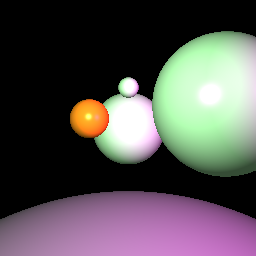
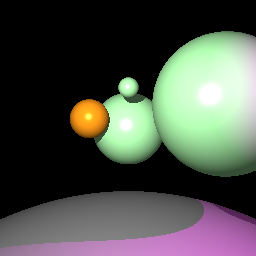
objective 6 complete.

Changed region(s): [[0.0, 0.75, 0.8125, 0.9688], [0.3125, 0.2812, 0.6562, 0.6562], [0.8438, 0.7812, 1.0, 0.875]]

diff --git a/src/a4.cpp b/src/a4.cpp
@@ -82,12 +82,18 @@ void a4_render(// What to render
 
 		Colour pixel_color(0, 0, 0);
 
+		// primary ray
 		if (root->rayTracing(eye, p_world, p)) {
 			// Adding Phong shading.
 			Point3D hitPoint = eye + p.z_buffer * (p_world - eye);
 			pixel_color  = ambient * p.material->getDiffuseColor();
 
 			for (std::list<Light*>::const_iterator I = lights.begin(); I != lights.end(); I++) { 
+				pixel temp;
+				// secondary ray, adding shadows.
+				if (root->rayTracing(hitPoint, (*I)->position, temp)) {
+					continue;
+				}	
 				Vector3D lightDirection = (*I)->position - hitPoint;
 				double distance = lightDirection.length();
 				double attenuation = 1 / ((*I)->falloff[0] + distance* (*I)->falloff[1] + distance * distance * (*I)->falloff[2]);

diff --git a/src/primitive.cpp b/src/primitive.cpp
@@ -25,10 +25,10 @@ int NonhierSphere::rayTracing(Point3D eye, Point3D p_world, pixel& p)
 	double c = (eye - m_pos).dot(eye - m_pos) - m_radius * m_radius;
 	double roots[2]; 
 	
-	if (quadraticRoots(a, b, c, roots) == 1) {	
+	if (quadraticRoots(a, b, c, roots) == 1 && roots[0] > 0) {	
 		p.z_buffer = roots[0];
 		retVal = 1;
-	} else if (quadraticRoots(a, b, c, roots) > 1) {
+	} else if (quadraticRoots(a, b, c, roots) > 1 && std::min(roots[0], roots[1]) > 0) {
 		p.z_buffer = std::min(roots[0], roots[1]);
 		retVal = 1;
 	}
